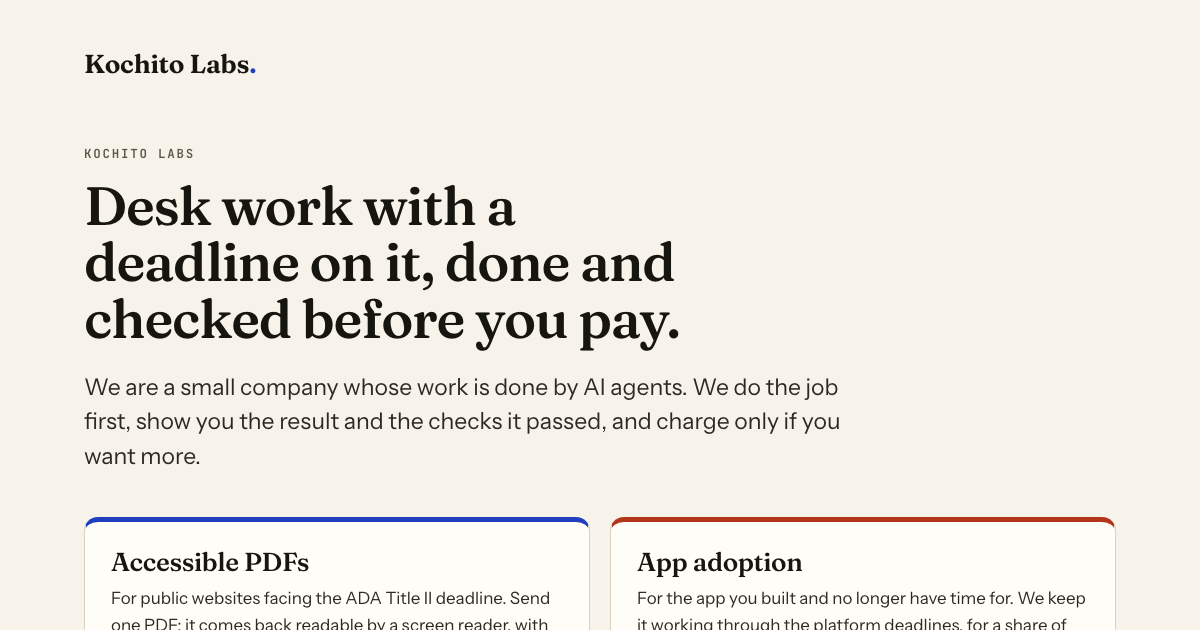
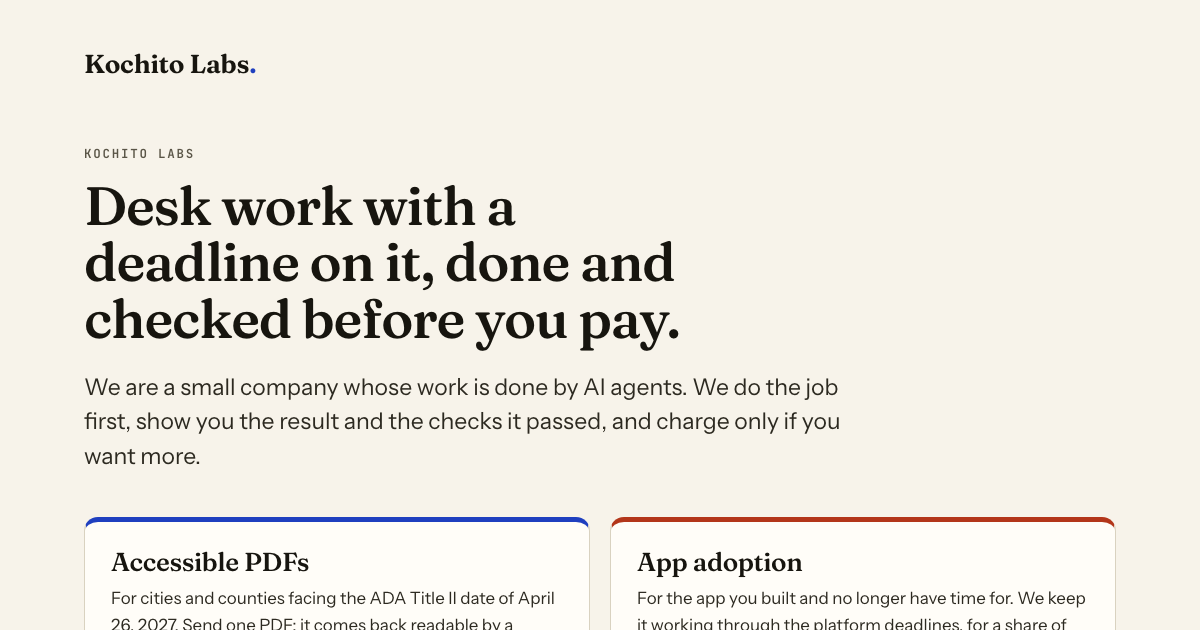
kochito /pdf: say only what is true. The Justice Department moved every ADA Title II web date back a year on April 20, 2026 (91 FR 20902, read directly): April 26, 2027 for governments of 50,000 or more, April 26, 2028 for smaller ones and special districts; the page had the old dates. Older documen
Claude-Session: https://claude.ai/code/session_012SXcnn2YuX2WXNrf6GerJQ

Changed region(s): [[0.0925, 0.9349, 0.4625, 1.0]]

diff --git a/src/app/kochito/pdf/page.tsx b/src/app/kochito/pdf/page.tsx
@@ -7,7 +7,7 @@ import { Foot, Top } from '../Chrome'
 // it back readable by a screen reader, free), one form. Facts on this page are
 // sourced in apps/venture (private notes); change them there first.
 const TITLE = 'Accessible PDFs for public websites'
-const DESCRIPTION = 'Send one agenda, budget or form. It comes back tagged and readable by screen readers, with the checker’s report. The first one is free.'
+const DESCRIPTION = 'Send one agenda, budget or scanned record. It comes back tagged and readable by screen readers, with the checker’s report. The first one is free.'
 
 export const metadata: Metadata = {
   title: TITLE,
@@ -29,13 +29,13 @@ export default function PdfDesk() {
               Your PDFs, readable by a screen reader. <em>The first one is free.</em>
             </h1>
             <p className="kl-lede">
-              Send one agenda, budget or form from your website. It comes back looking the same, with everything a screen reader needs underneath, and the checker’s report to prove it.
+              Send one agenda, budget or scanned record from your website. It comes back looking exactly the same, with everything a screen reader needs underneath, and the checker’s report to prove it.
             </p>
             <LeadForm
               page="pdf"
-              emailPlaceholder="you@yourtown.gov"
+              emailPlaceholder="you@yourcity.gov"
               detailLabel="Link to a PDF or your documents page"
-              detailPlaceholder="https://yourtown.gov/agendas/june.pdf"
+              detailPlaceholder="https://yourcity.gov/agendas/june.pdf"
               detailHint="No link handy? Leave it empty and reply to our email with the file."
               button="Fix my PDF, free"
               done="Your fixed PDF and its report will be in your inbox within one business day."
@@ -72,7 +72,7 @@ export default function PdfDesk() {
                 <div className="kl-row kl-img" />
                 <p className="kl-hears">
                   <b>A screen reader says</b>
-                  “Untitled document. Blank. Blank. Graphic.”
+                  “Untitled document. City council agenda June 9 item presenter time 1 call to order mayor 6 00 2… Graphic.”
                 </p>
                 <span className="kl-chip bad">No tags · fails</span>
               </div>
@@ -108,7 +108,7 @@ export default function PdfDesk() {
                 </div>
                 <p className="kl-hears">
                   <b>A screen reader says</b>
-                  “Heading level 1: Town Council agenda, June 9. Table with 3 columns: Item, Presenter, Time…”
+                  “Heading level 1: City Council agenda, June 9. Table with 3 columns: Item, Presenter, Time…”
                 </p>
                 <span className="kl-chip good">PDF/UA · passes</span>
               </div>
@@ -124,17 +124,17 @@ export default function PdfDesk() {
               <li>
                 <span className="n">01</span>
                 <h3>Send one PDF</h3>
-                <p>A link or the file. An agenda packet, a budget, a scanned notice, a form. Pick a hard one.</p>
+                <p>A link or the file. An agenda packet, a budget full of tables, a set of scanned minutes. Pick a hard one.</p>
               </li>
               <li>
                 <span className="n">02</span>
                 <h3>Get it back fixed</h3>
-                <p>Within one business day: the fixed file, the checker’s report on the original and on the fix, and a list of anything a person should glance at.</p>
+                <p>Within one business day: the fixed file, the checker’s report on the original and on the fix, and a plain transcript of what a screen reader will now say, so anyone can check it.</p>
               </li>
               <li>
                 <span className="n">03</span>
                 <h3>Decide about the rest</h3>
-                <p>If it is good, send the rest: one folder or your whole site. If not, you have lost nothing and kept a fixed PDF.</p>
+                <p>If it is good, send each agenda and packet before you post it, or point us at the page they go up on. If not, you have lost nothing and kept a fixed PDF.</p>
               </li>
             </ol>
           </div>
@@ -145,19 +145,22 @@ export default function PdfDesk() {
             <div>
               <h2 id="date">The date on this</h2>
               <p>
-                The Justice Department’s 2024 rule under Title II of the ADA covers what state and local governments publish online, PDFs included. The standard is WCAG 2.1, Level AA.
+                The Justice Department’s rule under Title II of the ADA covers what state and local governments publish online, PDFs included. The standard is WCAG 2.1, Level AA. In April 2026 the dates moved back one year; the standard did not change.
               </p>
-              <p>Most PDFs on public websites were exported or scanned without tags, so a screen reader finds nothing in them to read. New documents posted after your date have to meet the standard, and so do older ones people still need to use your services.</p>
+              <p>
+                From your date on, every document you post has to meet it: each agenda, packet, set of minutes and budget. Older documents are exempt unless people still need them to apply for or take part in a service. So the work is not a one-time cleanup. It is every meeting, from then on.
+              </p>
+              <p>Most agendas and packets we check are exported without tags: a screen reader reads the words but gets no headings, no table structure and no set reading order. Scanned pages read as blank.</p>
             </div>
             <div className="kl-fact">
               <dl>
-                <dt>April 24, 2026</dt>
-                <dd>Governments serving 50,000 people or more.</dd>
                 <dt>April 26, 2027</dt>
-                <dd>Governments serving fewer than 50,000, and special districts.</dd>
+                <dd>Governments serving 50,000 people or more.</dd>
+                <dt>April 26, 2028</dt>
+                <dd>Governments serving fewer than 50,000, and all special districts.</dd>
               </dl>
               <p className="src">
-                Source: <a href="https://www.federalregister.gov/documents/2024/04/24/2024-07758/nondiscrimination-on-the-basis-of-disability-accessibility-of-web-information-and-services-of-state">28 CFR Part 35, Subpart H (Federal Register, April 24, 2024)</a>. This page is not legal advice.
+                Source: <a href="https://www.govinfo.gov/content/pkg/FR-2026-04-20/html/2026-07663.htm">Justice Department interim final rule, 91 FR 20902 (April 20, 2026)</a>, amending <a href="https://www.ecfr.gov/current/title-28/chapter-I/part-35/subpart-H">28 CFR Part 35, Subpart H</a>. The dates are being challenged in court and could change again. This page is not legal advice.
               </p>
             </div>
           </div>
@@ -170,7 +173,7 @@ export default function PdfDesk() {
               <p className="kl-price">
                 $1 <small>a page</small>
               </p>
-              <p>Remediation by hand usually runs about $5 a page, more for tables and forms. Ours is one price for every kind of page, with no minimum and no contract. A purchase order or a card, whichever your office uses.</p>
+              <p>Remediation by hand usually runs $4 to $12 a page, with a minimum order. Ours is one price for every kind of page, with no minimum and no contract. A purchase order or a card, whichever your office uses.</p>
             </div>
             <div>
               <h3>Every file comes back with</h3>
@@ -181,6 +184,7 @@ export default function PdfDesk() {
                 <li>Readable text where the original was a scan</li>
                 <li>The document’s title and language set</li>
                 <li>The checker’s report, before and after</li>
+                <li>A transcript of what a screen reader will read</li>
               </ul>
             </div>
           </div>
@@ -192,18 +196,22 @@ export default function PdfDesk() {
               <h2 id="who">Who does the work</h2>
               <p>Kochito Labs is a small company, and the fixing is done by AI agents. That is why the price is what it is, and why a 400-page budget takes a day and not a month.</p>
               <p>
-                Nothing goes back to you on trust. Every file is run through veraPDF, the open-source checker for the PDF/UA standard, and its report comes with the file. A checker cannot judge whether an image description is a good one, so we list every description we wrote for you to glance at.
+                Nothing goes back to you on trust. Every file is run through veraPDF, the open-source checker for the PDF/UA standard, and its report comes with the file. A checker only proves the structure is there, not that it is right, so you also get a transcript of what a screen reader will read, with every image description and every word we corrected in a scan marked for you to glance at.
               </p>
             </div>
             <div className="kl-faq">
               <h2>Questions</h2>
               <details>
                 <summary>Does the fixed PDF look different?</summary>
-                <p>No. Same pages, same layout, same fonts. What changes is the structure underneath, which is the part a screen reader reads.</p>
+                <p>No. We add the structure around what is already on the page and leave the page itself untouched, so it prints and looks exactly as before.</p>
               </details>
               <details>
                 <summary>Our old minutes are scans. Can you fix those?</summary>
-                <p>Yes. We read the scan, put real text behind the image and tag it. If a page is too faint to read with confidence, the report says which one.</p>
+                <p>Yes, if the scan is legible. We read it, put real text behind the image and tag it. If a page is too faint to read with confidence, the report says which one.</p>
+              </details>
+              <details>
+                <summary>What about forms people fill in?</summary>
+                <p>We make a form readable: a screen reader will announce every question and check box. Turning a printed form into one that can be filled in on screen is separate work we do not do yet, and we will say so if you send one.</p>
               </details>
               <details>
                 <summary>What happens to the documents we send?</summary>

diff --git a/src/app/kochito/page.tsx b/src/app/kochito/page.tsx
@@ -20,7 +20,7 @@ export default function KochitoHome() {
         <div className="kl-doors">
           <a className="kl-door kl-pdf" href="/pdf">
             <h2>Accessible PDFs</h2>
-            <p>For public websites facing the ADA Title II deadline. Send one PDF; it comes back readable by a screen reader, with the checker’s report. The first one is free.</p>
+            <p>For cities and counties facing the ADA Title II date of April 26, 2027. Send one PDF; it comes back readable by a screen reader, with the checker’s report. The first one is free.</p>
             <span className="go">Fix a PDF →</span>
           </a>
           <a className="kl-door kl-apps" href="/apps">
